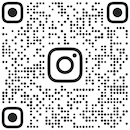
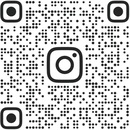
update app v2

diff --git a/calculator_app/src/component/UI-component/contacts.js b/calculator_app/src/component/UI-component/contacts.js
@@ -12,7 +12,7 @@ export default function CompanyContacts() {
             </div>
             <div className="contacts qr_code">
                 {Pictire}
-                <p className="link_ovner_company">merkulov_mebel</p>
+                <p className="link_ovner_company">MERIBEL_FURNITURE</p>
             </div>
         </div>
     )

diff --git a/calculator_app/src/component/UI-component/style-table.css b/calculator_app/src/component/UI-component/style-table.css
@@ -162,10 +162,9 @@ tr td:last-child::before {
 }
 
 .link_ovner_company {
-    font-size: 0.7em;
+    font-size: 0.68em;
     font-weight: 700;
     text-transform: uppercase;
-    letter-spacing: 0.05em;
 }
 
 @media(max-width: 767px) {
